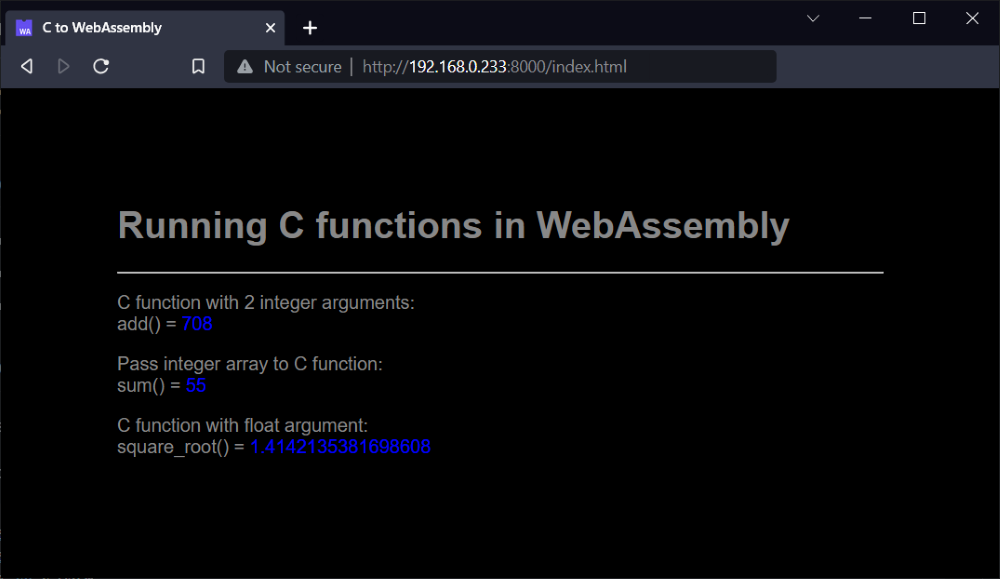
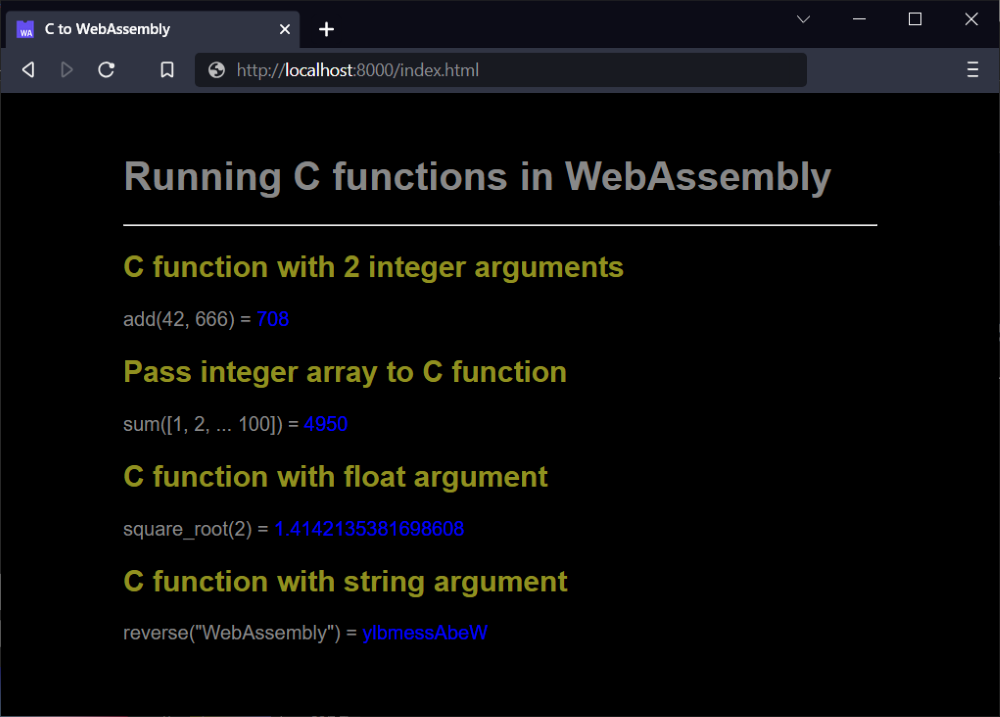
Add reverse()

diff --git a/app.js b/app.js
@@ -1,6 +1,5 @@
-let addfield;
-let sumfield;
-let sqrtfield;
+let w = null;
+let memory = null;
 
 function make_environment(...envs) {
   return new Proxy(envs, {
@@ -10,26 +9,77 @@ function make_environment(...envs) {
                   return env[prop];
               }
           }
+
           return (...args) => { console.error("NOT IMPLEMENTED: " + prop, args); }
       }
   });
 }
 
-const libm = {
+const imports = {
     "sqrt": Math.sqrt,
-    "console": console.log,
+    "print": print,
 };
 
 function run_wasm(obj) {
-  const w = obj.instance;
+  w = obj.instance;
+  memory = new Uint8Array(w.exports.memory.buffer);
 
-  let addresult = w.exports.add(42, 666);
-  addfield.innerHTML = addresult;
+  test1(w);
+  test2(w);
+  test3(w);
+  test4(w);
+}
 
-  const jsArray = [1, 2, 3, 4, 5, 6, 7, 8, 9, 10];
+async function load_wasm() {
+  fetch("main.wasm").then(response => 
+    response.arrayBuffer()
+  ).then(bytes => 
+    WebAssembly.instantiate(bytes, { "env": make_environment(imports) })
+  ).then(run_wasm);
+}
 
-  // Allocate memory for a few 32-bit integers
-  // and return get starting address.
+function extract_string(address)
+{
+  let s = "";
+  let i = address;
+  while (i < memory.length)
+  {
+    if (memory[i] == 0)
+    {
+      break;
+    }
+
+    s += String.fromCharCode(memory[i]);
+    i++;
+  }
+
+  return s;
+}
+
+function init() {
+  load_wasm();
+}
+
+function print(value)
+{
+  const s = extract_string(value);
+  console.log("print:", s);
+}
+
+function test1(w) {
+  element = document.getElementById("test1result");
+  let addResult = w.exports.add(42, 666);
+  element.innerHTML = addResult;
+}
+
+function test2(w) {
+  element = document.getElementById("test2result");
+  const jsArray = [];
+  for (let i = 1; i < 100; i++) {
+    jsArray.push(i);
+  }
+
+  // Allocate memory for a few 32-bit integers and return get starting address.
   const cArrayPointer = w.exports.c_malloc(jsArray.length * 4);
 
   // Turn that sequence of 32-bit integers into a Uint32Array, starting at that address.
@@ -43,25 +93,35 @@ function run_wasm(obj) {
   cArray.set(jsArray);
 
   // Run the function, passing the starting address and length.
-  let sumresult = w.exports.sum(cArrayPointer, cArray.length);
-  sumfield.innerHTML = sumresult;
+  let sumResult = w.exports.sum(cArrayPointer, cArray.length);
 
-  let sqrtresult = w.exports.square_root(2);
-  sqrtfield.innerHTML = sqrtresult;
+  // Free the memory.
+  w.exports.c_free(cArrayPointer);
+
+  element.innerHTML = sumResult;
 }
 
-async function init_wasm() {
-  fetch("main.wasm").then(response => 
-    response.arrayBuffer()
-  ).then(bytes => 
-    WebAssembly.instantiate(bytes, { "env": make_environment(libm) })
-  ).then(run_wasm);
+function test3(w) {
+  element = document.getElementById("test3result");
+  let sqrtResult = w.exports.square_root(2);
+  element.innerHTML = sqrtResult;
 }
 
-function init() {
-  addfield = document.getElementById("addfield");
-  sumfield = document.getElementById("sumfield");
-  sqrtfield = document.getElementById("sqrtfield");
+function test4(w) {
+  element = document.getElementById("test4result");
+  const msg = "WebAssembly";
 
-  init_wasm();
+  const encoder = new TextEncoder();
+  const bytes = encoder.encode(msg);
+  const ptr = w.exports.c_malloc(bytes.byteLength);
+  const buffer = new Uint8Array(w.exports.memory.buffer, ptr, bytes.byteLength + 1)
+  buffer.set(bytes);
+
+  // console.log(buffer, buffer.length);
+  let reverseResult = w.exports.reverse(ptr, buffer.length - 1);
+
+  const result = extract_string(reverseResult);
+
+  console.log("test4", reverseResult, typeof(reverseResult));
+  element.innerHTML = result;
 }

diff --git a/index.html b/index.html
@@ -16,18 +16,23 @@
   <h1>Running C functions in WebAssembly</h1>
   <hr/>
   <p>
-    C function with 2 integer arguments:<br/>
-    add() = <span class="result" id="addfield"></span>
+    <h2>C function with 2 integer arguments</h2>
+    add(42, 666) = <span class="result" id="test1result"></span>
   </p>
 
   <p>
-    Pass integer array to C function:<br/>
-    sum() = <span class="result" id="sumfield"></span>
+    <h2>Pass integer array to C function</h2>
+    sum([1, 2, ... 100]) = <span class="result" id="test2result"></span>
   </p>
 
   <p>
-    C function with float argument:<br/>
-    square_root() = <span class="result" id="sqrtfield"></span>
+    <h2>C function with float argument</h2>
+    square_root(2) = <span class="result" id="test3result"></span>
+  </p>
+
+  <p>
+    <h2>C function with string argument</h2>
+    reverse("WebAssembly") = <span class="result" id="test4result"></span>
   </p>
 
 <script type="module">

diff --git a/style.css b/style.css
@@ -1,13 +1,17 @@
 * {
-    background-color: black;
-    color: #888888;
-    font-family: Arial, Helvetica, sans-serif;
+  background-color: black;
+  color: #888888;
+  font-family: Arial, Helvetica, sans-serif;
 }
 
 body {
-    margin: 100px;
+  margin: 50px 100px;
+}
+
+h2 {
+  color: #909020;
 }
 
 .result {
-    color: blue;
+  color: blue;
 }

diff --git a/main.c b/main.c
@@ -1,9 +1,9 @@
-////////////
-// Example
-////////////
+/////////////
+// Example //
+/////////////
 
 // Function declared in Javascript
-void console(char* msg);
+void print(char* msg);
 float sqrt(float number);
 
 // Our memory allocator
@@ -19,19 +19,19 @@ void* c_malloc(int n)
 
 void c_free(void* p)
 {
-	// nop
+	// Not implemented yet
 }
 
 // Function to be called from Javascript
 int add(int a, int b)
 {
-	console("In C add()\n");
+	print("In C add()\n");
 	return a + b;
 }
 
 int sum(int a[], int len)
 {
-	console("In C sum()\n");
+	print("In C sum()\n");
   	int sum = 0;
   	for (int i = 0; i < len; i++)
 	{
@@ -43,6 +43,21 @@ int sum(int a[], int len)
 
 float square_root(float number)
 {
-	console("In C square_root()\n");
+	print("In C square_root()\n");
 	return sqrt(number);
+}
+
+#define MAX_MSG_LENGTH	100
+
+char* reverse(char* msg, int len)
+{
+	print(msg);
+	char* result = c_malloc(len + 1);
+	result[len] = 0;
+	for (int i = 0; i < len; ++i)
+	{
+		result[len - 1 - i] = msg[i];
+	}
+
+	return result;
 }
